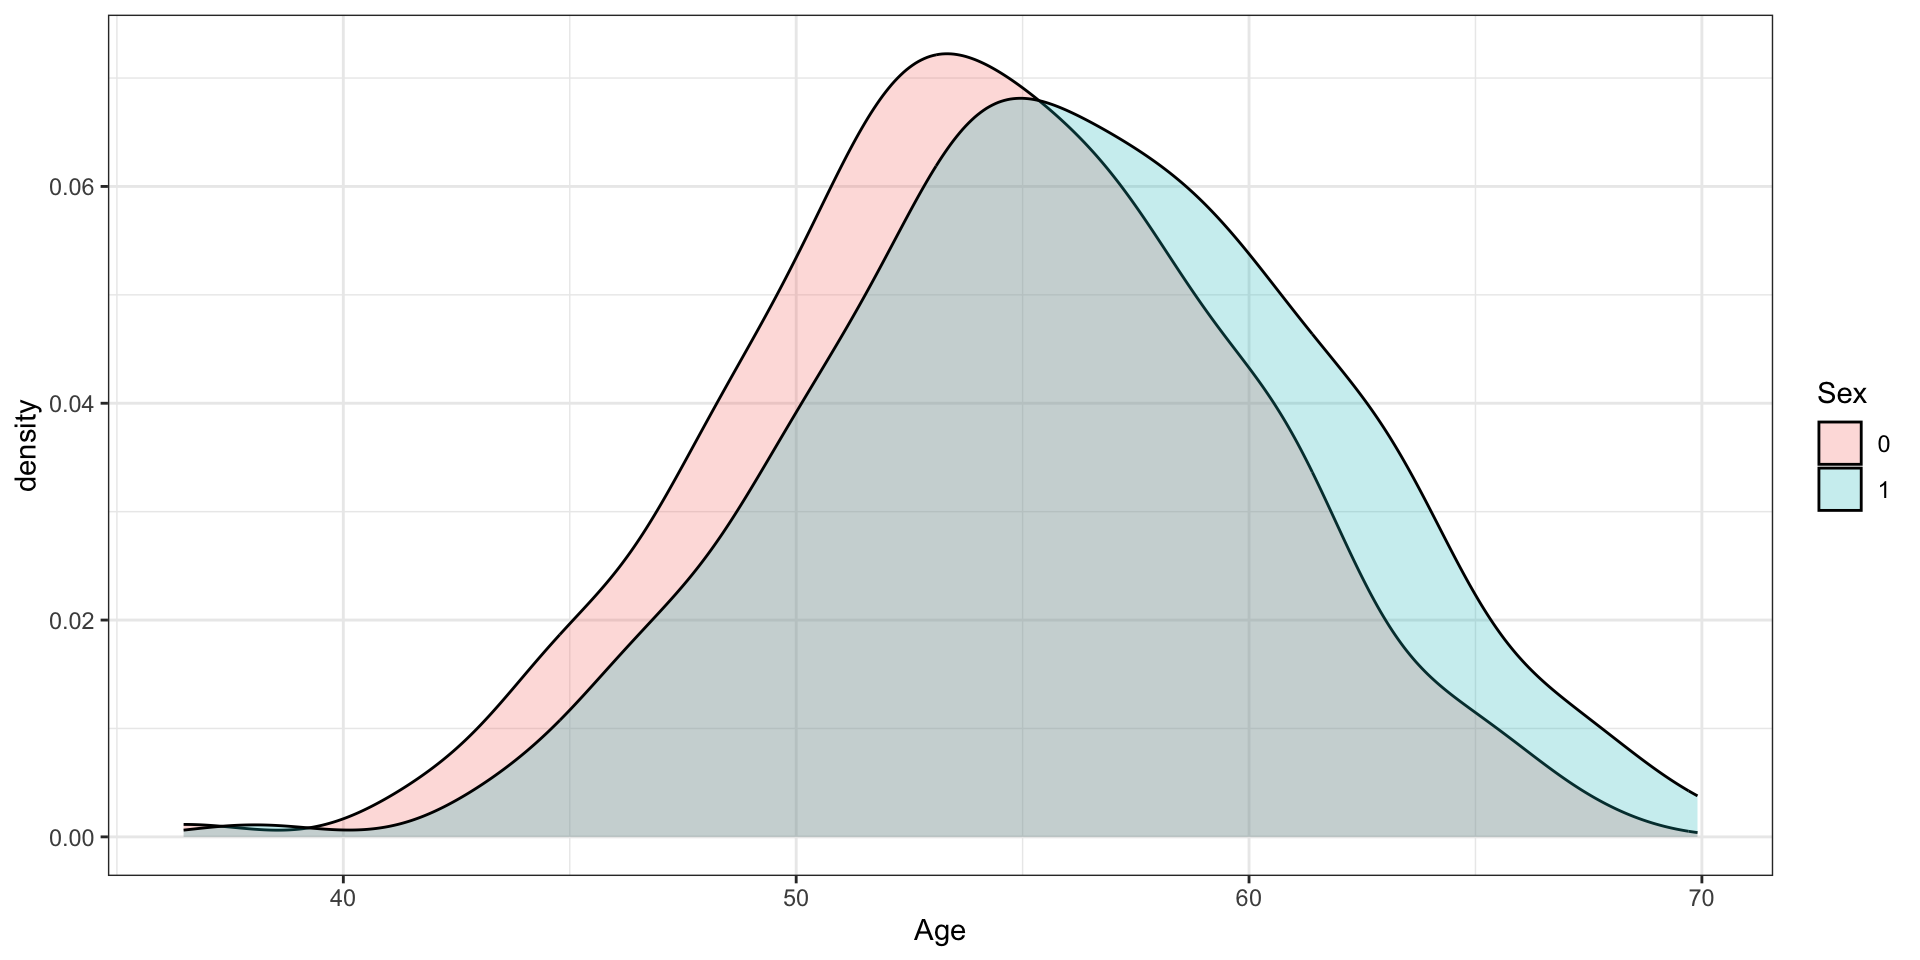
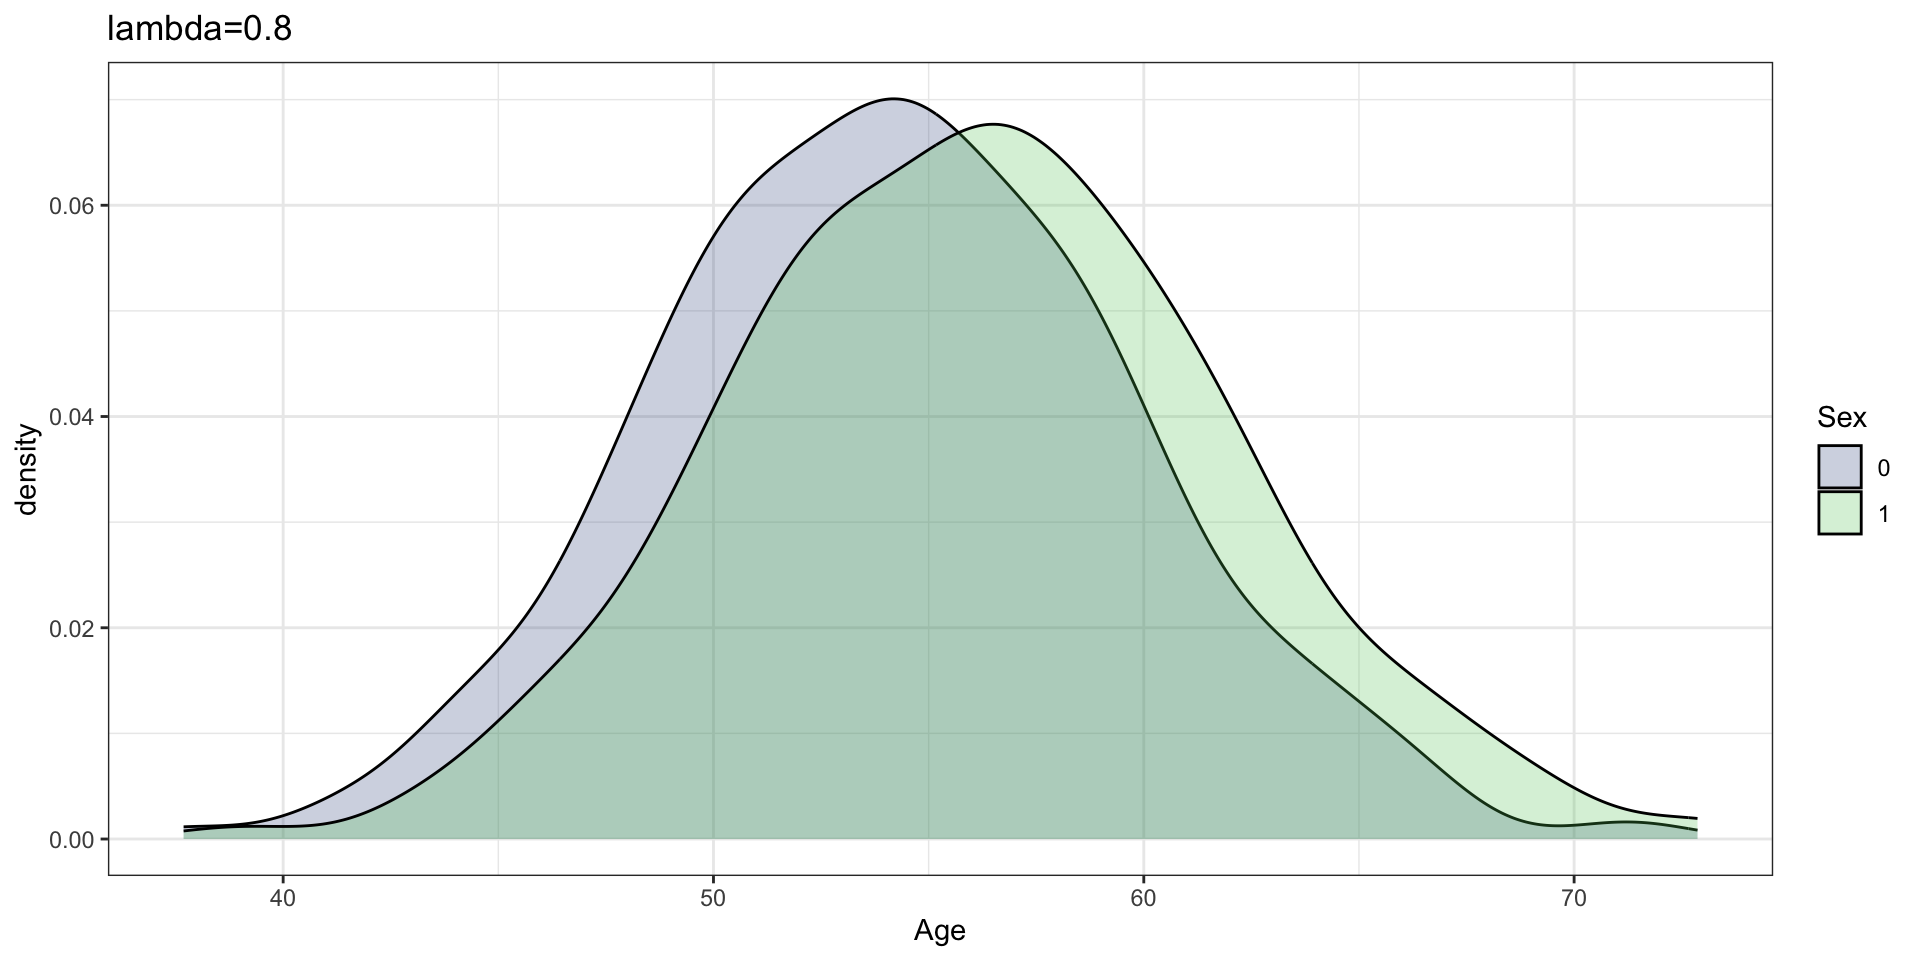
tsts

diff --git a/_site/Presentations/mmdis/mmdis.html b/_site/Presentations/mmdis/mmdis.html
@@ -704,7 +704,6 @@ Performance metrics are a trade-off
 </div>
 <p>This is done by modifying your training data before model training</p>
 <p>One example is using the Disparate Impact Remover</p>
-<p>(lambda = 0.50)</p>
 <div data-id="Disparate Impact Remover" data-auto-animate-delay="0" style="background: #00000; width: 500px; height: auto; margin: 50px;">
 <div class="cell">
 <div class="cell-output-display">
@@ -724,7 +723,6 @@ Performance metrics are a trade-off
 </div>
 <p>This is done by modifying your training data before model training</p>
 <p>One example is using the Disparate Impact Remover</p>
-<p>(lambda = 0.80)</p>
 <div data-id="Disparate Impact Remover" data-auto-animate-delay="0" style="background: #00000; width: 500px; height: auto; margin: 50px;">
 <div class="cell">
 <div class="cell-output-display">
@@ -744,7 +742,6 @@ Performance metrics are a trade-off
 </div>
 <p>This is done by modifying your training data before model training</p>
 <p>One example is using the Disparate Impact Remover</p>
-<p>(lambda = 1.00)</p>
 <div data-id="Disparate Impact Remover" data-auto-animate-delay="0" style="background: #00000; width: 500px; height: auto; margin: 50px;">
 <div class="cell">
 <div class="cell-output-display">
